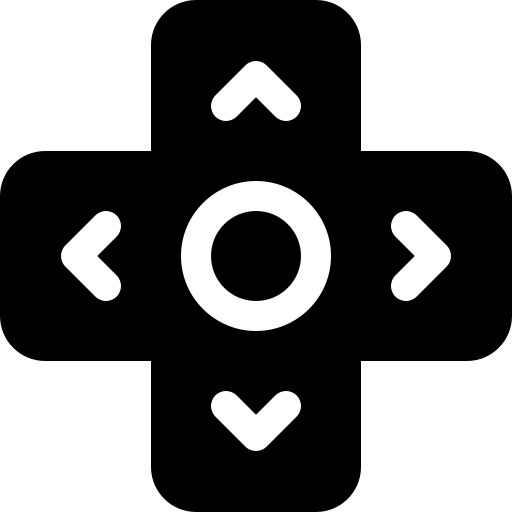
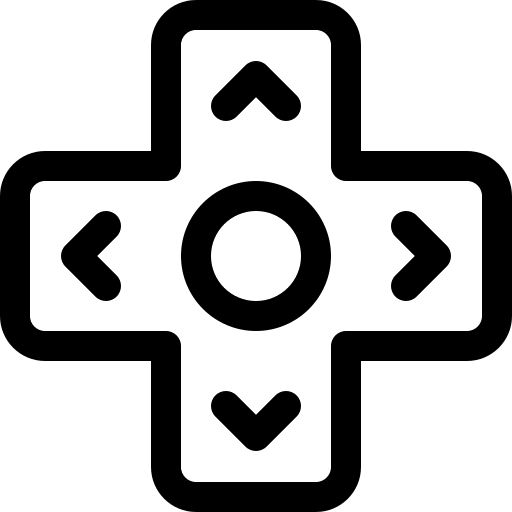
WIP

diff --git a/src/utils.c b/src/utils.c
@@ -2,12 +2,18 @@
 
 int indexOfWordBreak(const char *string, const int startFrom)
 {
-  int wIdx = indexOf(string, ' ', startFrom);
-  int tIdx = indexOf(string, '\t', startFrom);
-  if (tIdx == -1)
-    return wIdx;
+  if (!string)
+      return -1;
 
-  return wIdx < tIdx ? wIdx : tIdx;
+  int idx = startFrom;
+  int len = strlen(string);
+  while (idx < len) {
+    if (string[idx] == ' ' || string[idx] == '\t')
+      return idx;
+    idx++;
+  }
+
+  return -1;
 }
 
 int indexOf(const char *string, const char character, const int startFrom)
@@ -35,16 +41,21 @@ int startsWithWord(const char *prefix, const char *string)
 {
   char *test = malloc(strlen(prefix) + 1);
   snprintf(test, strlen(prefix) + 1, "%s ", prefix);
-  if (startsWith(test, string))
+  if (startsWith(test, string)) {
+    free(test);
+    test = NULL;
     return 1;
+  }
 
   snprintf(test, strlen(prefix) + 1, "%s\t", prefix);
   if (startsWith(test, string)) {
     free(test);
+    test = NULL;
     return 1;
   }
 
   free(test);
+  test = NULL;
   return 0;
 }
 
@@ -142,28 +153,9 @@ void sdlBlitImageFile(char* image, int x, int y, int maxWidth, int maxHeight)
   SDL_Surface *surface = IMG_Load(image);
   if (surface == NULL)
     return;
-  SDL_Texture* texture = SDL_CreateTextureFromSurface(_Globals.renderer, surface);
 
-  SDL_Rect rect;
-  rect.x = x;
-  rect.y = y;
-  rect.w = surface->w;
-  rect.h = surface->h;
-
-  float ratio = rect.w / rect.h;
-  if (rect.w > maxWidth) {
-    rect.w = maxWidth;
-    rect.h = rect.w / ratio;
-  }
-  if (rect.h > maxHeight) {
-    rect.h = maxHeight;
-    rect.w = rect.h * ratio;
-  }
-
-  SDL_RenderCopy(_Globals.renderer, texture, NULL, &rect);
-
+  sdlBlitImage(surface, x, y, maxWidth, maxHeight);
   SDL_FreeSurface(surface);
-  SDL_DestroyTexture(texture);
 }
 
 void sdlBlitImage(SDL_Surface *surface, int x, int y, int maxWidth, int maxHeight)

diff --git a/src/init.c b/src/init.c
@@ -1,5 +1,7 @@
 #include "CoGSDL.h"
 
+void load_images();
+
 int init()
 {
   logInit("CoGSDL.log");
@@ -42,14 +44,9 @@ int init()
   _Globals.defaultSmallFontSize = 14;
   _Globals.defaultSmallFont = TTF_OpenFont("./fonts/Roboto-Light.ttf", _Globals.defaultSmallFontSize);
 
-  button_x = IMG_Load("images/button_x.png");
-  button_y = IMG_Load("images/button_y.png");
-  button_a = IMG_Load("images/button_a.png");
-  button_b = IMG_Load("images/button_b.png");
-  dpad = IMG_Load("images/dpad.png");
-  dpad_up_down = IMG_Load("images/dpad_up_down.png");
+  load_images();
 
-  _Globals.window = SDL_CreateWindow("Choice of games interpreter",
+  _Globals.window = SDL_CreateWindow("CoGSDL",
                                SDL_WINDOWPOS_CENTERED, SDL_WINDOWPOS_CENTERED,
                                _Globals.WINDOW_WIDTH > 0 ? _Globals.WINDOW_WIDTH : _Globals.DISPLAY_WIDTH,
                                _Globals.WINDOW_HEIGHT > 0 ? _Globals.WINDOW_HEIGHT : _Globals.DISPLAY_HEIGHT,
@@ -66,8 +63,31 @@ int init()
   }
 
   SDL_SetRenderDrawBlendMode(_Globals.renderer, SDL_BLENDMODE_BLEND);
+  SDL_SetHint(SDL_HINT_RENDER_SCALE_QUALITY, "2");
 
   _Globals.logLevel = Debug;
   _Globals.status = GameSelect;
   return 0;
+}
+
+void load_images()
+{
+  app_icon = IMG_Load("images/icon.png");
+  button_x = IMG_Load("images/button_x.png");
+  button_y = IMG_Load("images/button_y.png");
+  button_a = IMG_Load("images/button_a.png");
+  button_b = IMG_Load("images/button_b.png");
+  dpad = IMG_Load("images/dpad.png");
+  dpad_up_down = IMG_Load("images/dpad_up_down.png");
+}
+
+void free_images()
+{
+  SDL_FreeSurface(app_icon);
+  SDL_FreeSurface(button_x);
+  SDL_FreeSurface(button_y);
+  SDL_FreeSurface(button_a);
+  SDL_FreeSurface(button_b);
+  SDL_FreeSurface(dpad);
+  SDL_FreeSurface(dpad_up_down);
 }

diff --git a/src/draw.c b/src/draw.c
@@ -53,14 +53,15 @@ void drawHeader()
   SDL_RenderFillRect(_Globals.renderer, &rect);
 
   if (_Globals.status == Game && runningGame != NULL) {
-    int x = 0;
     if (runningGameIcon != NULL) {
-      sdlBlitImage(runningGameIcon, x, 0, 30, 30);
-      x += 35;
+      sdlBlitImage(runningGameIcon, 0, 0, 30, 30);
+    } else {
+      sdlBlitImage(app_icon, 0, 0, 30, 30);
     }
-    sdlWriteText(_Globals.defaultFont, colorTitleText, runningGame->title, x, 5, 0, 0);
+    sdlWriteText(_Globals.defaultFont, colorTitleText, runningGame->title, 35, 5, 0, 0);
   } else {
-    sdlWriteText(_Globals.defaultFont, colorTitleText, "CoGSDL v.1.0", 5, 5, 0, 0);
+    sdlBlitImage(app_icon, 0, 0, 30, 30);
+    sdlWriteText(_Globals.defaultFont, colorTitleText, "CoGSDL v.1.0", 35, 5, 0, 0);
   }
 }
 

diff --git a/src/game.c b/src/game.c
@@ -109,10 +109,12 @@ int loadGame(const char* path, game* game)
 
       idx = indexOfWordBreak(line, idx + 1);
       int nextIdx = indexOfWordBreak(line, idx + 1);
-      char points[20];
+      char points[20] = "0";
       if (nextIdx - idx - 1 < sizeof(points)) {
         subString(line, points, idx + 1, nextIdx - idx - 1);
         game->achievements[game->achievementsCount].points = atoi(points);
+      } else {
+        logWarning("\tPoints string too long (idx=%i, nextIdx=%i)\n", idx, nextIdx);
       }
       game->achievements[game->achievementsCount].title = malloc(strlen(line) - nextIdx + 1);
       subString(line, game->achievements[game->achievementsCount].title, nextIdx + 1, strlen(line) - nextIdx);

diff --git a/src/mainmenu.c b/src/mainmenu.c
@@ -1,7 +1,22 @@
 #include "CoGSDL.h"
 
+double mmAngle = 0;
+int mmIndex = 0;
 
 void drawMainMenu()
 {
+  SDL_Texture* texture = SDL_CreateTextureFromSurface(_Globals.renderer, app_icon);
+  SDL_Rect rect = {30, 50, 100, 100};
+  SDL_Rect crop = {0, 0, app_icon->w, app_icon->h};
+  SDL_Point center = { 50, 50};
+  SDL_RendererFlip flip = SDL_FLIP_NONE;
+  SDL_RenderCopyEx(_Globals.renderer, texture, &crop , &rect, mmAngle, &center, flip);
+  SDL_DestroyTexture(texture);
 
+  mmAngle += 0.5;
+  if (mmAngle >= 360)
+    mmAngle = 0;
+
+  sdlWriteText(_Globals.defaultFont, colorText, "CoGSDL", 140, 75, 0, 0);
+  sdlWriteText(_Globals.defaultSmallFont, colorText, "A Choice of Games interpreter", 140, 100, 0, 0);
 }

diff --git a/src/main.c b/src/main.c
@@ -8,6 +8,7 @@ const SDL_Color colorText = {255, 255, 255};
 const SDL_Color colorSelectedText = {95, 195, 248};
 const SDL_Color colorTitleText = {242, 238, 143};
 
+SDL_Surface* app_icon;
 SDL_Surface* button_x;
 SDL_Surface* button_y;
 SDL_Surface* button_a;
@@ -55,6 +56,7 @@ int main(int argc, char* argv[])
 
   draw();
 
+  free_images();
   IMG_Quit();
   TTF_Quit();
   SDL_DestroyRenderer(_Globals.renderer);

diff --git a/include/CoGSDL.h b/include/CoGSDL.h
@@ -23,6 +23,7 @@ extern const SDL_Color colorText;
 extern const SDL_Color colorSelectedText;
 extern const SDL_Color colorTitleText;
 
+extern SDL_Surface* app_icon;
 extern SDL_Surface* button_x;
 extern SDL_Surface* button_y;
 extern SDL_Surface* button_a;
@@ -99,6 +100,7 @@ int init();
 
 /* draw.c */
 int draw();
+void free_images();
 
 /* events.c */
 /// @brief Manage SDL events

diff --git a/src/gameselectmenu.c b/src/gameselectmenu.c
@@ -31,6 +31,8 @@ void drawGameSelectMenu()
     if (selectedIdx < 0) {
       selectedIdx = _Globals.gamesCount - 1;
       firstIdx = _Globals.gamesCount - items;
+      if (firstIdx < 0)
+        firstIdx = 0;
     }
     if (iconSurface != NULL) {
       SDL_FreeSurface(iconSurface);
